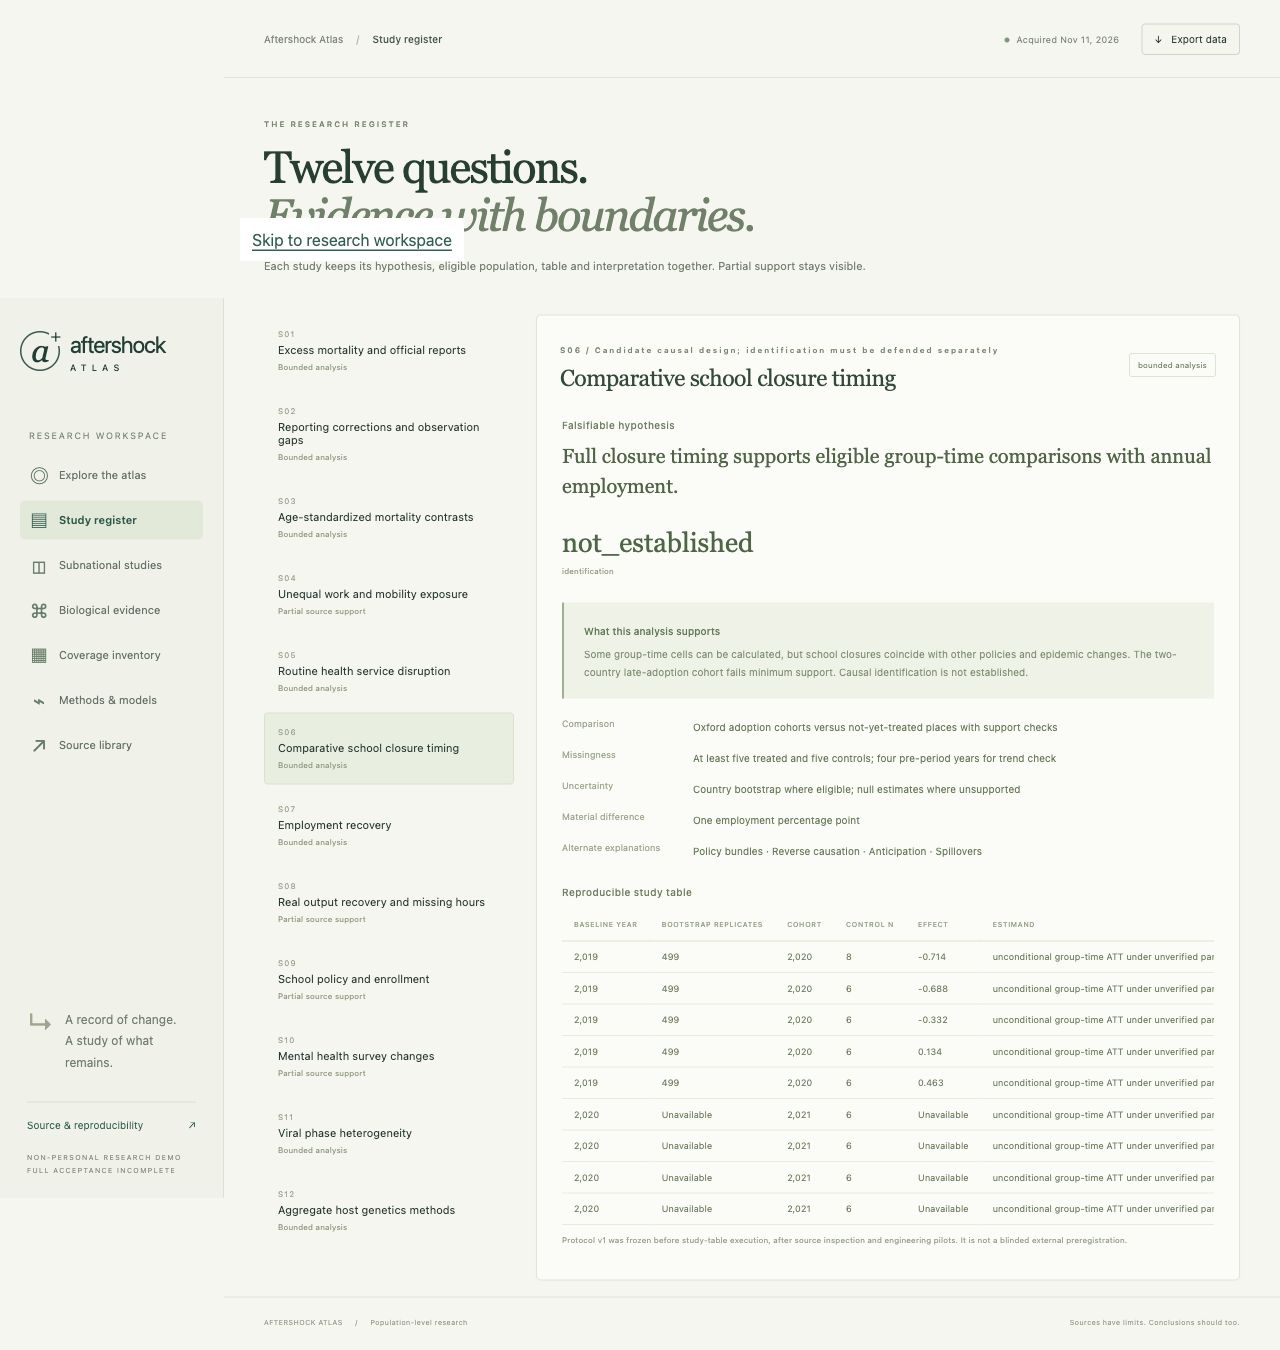
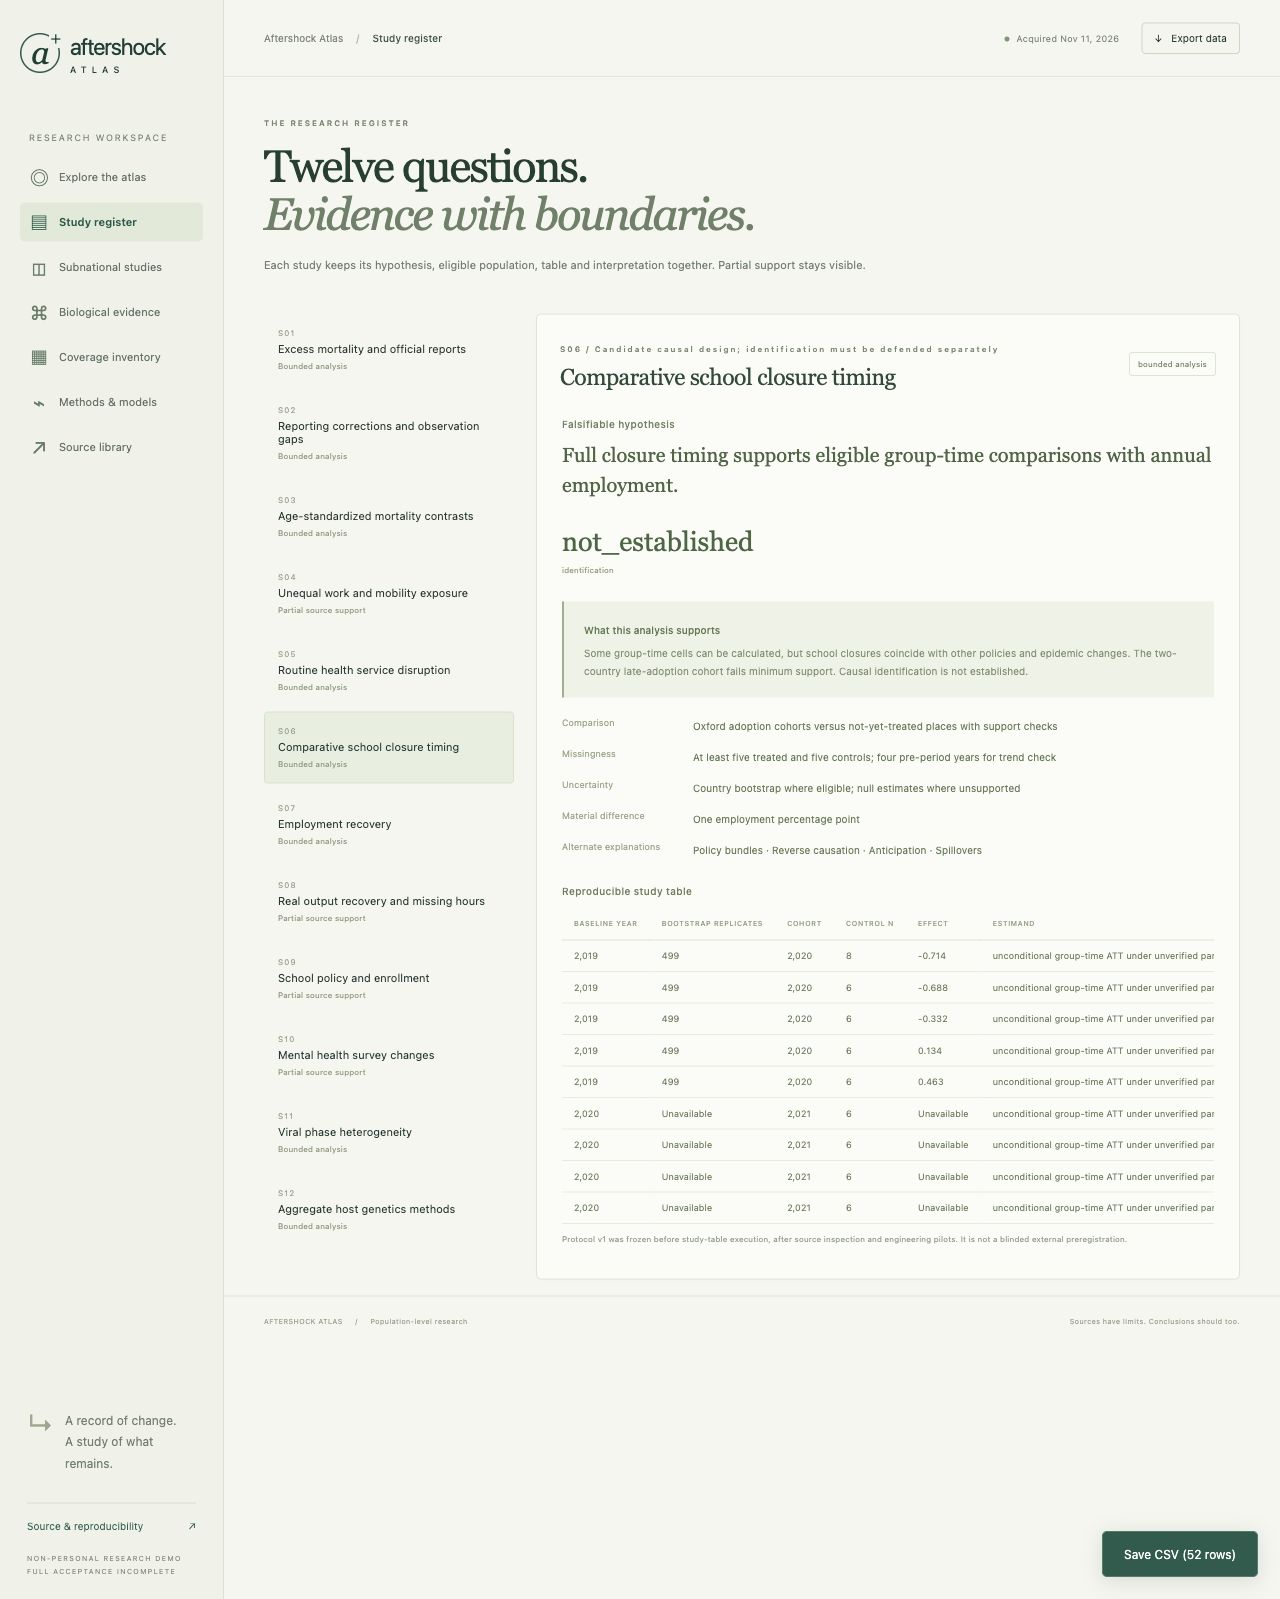
Correct UTC plot labels, error announcements and replay storage accounting

diff --git a/client/src/research-views.ts b/client/src/research-views.ts
@@ -37,7 +37,7 @@ export async function biologyView(signal:AbortSignal):Promise<Rendered> {
   const variants=['B.1.617.2','B.1.1.529'];
   const series=variants.map((v,i)=>({name:v,color:i?'#bd724c':'#226354',points:viral.rows.filter(r=>r.variant===v).map(r=>({x:Date.parse(r.week),y:r.value===null?null:r.value*100,low:r.lower===null?undefined:r.lower*100,high:r.upper===null?undefined:r.upper*100}))}));
   const forest=genes.representatives.slice(0,12).map(r=>`<tr><td>chr${safe(r.chromosome)}:${r.position}<small>${safe(r.reference)} → ${safe(r.effect_allele)}</small></td><td>${format(r.a2_odds_ratio,3)}</td><td>${format(r.a2_lower,3)} to ${format(r.a2_upper,3)}</td><td>${r.a2_beta*r.b2_beta_aligned>0?'Concordant':'Discordant'}</td></tr>`).join('');
-  return {html:`${heading('AGGREGATE BIOLOGICAL EVIDENCE','Two distinct<br><em>lines of inquiry.</em>','Human host associations and viral surveillance stay in separate schemas. Neither is a biological explanation of national or ethnic-group outcomes.')}<section class="panel prose"><div class="panel-heading"><div><span class="eyebrow">HUMAN HOST ASSOCIATIONS</span><h2>HGI released summary statistics</h2></div><span class="pill warning">Technical interpretation</span></div><div class="study-stats"><div><strong>${format(genes.aligned_variants,0)}</strong><span>aligned variants</span></div><div><strong>${format(genes.direction_concordant,0)}</strong><span>same effect direction</span></div><div><strong>${format(genes.excluded.ambiguous_strand,0)}</strong><span>ambiguous variants excluded</span></div></div>${note('Concordance is not independent replication','The severe respiratory and hospitalized case definitions share cohorts and controls. Selected top variants, linkage disequilibrium and sample overlap limit interpretation. These odds ratios do not estimate personal risks.')}<div class="table-scroll"><table><thead><tr><th>GRCh38 variant</th><th>A2 odds ratio</th><th>95% Wald interval</th><th>A2 / B2 direction</th></tr></thead><tbody>${forest}</tbody></table></div><p class="micro">Display representatives use 1 Mb bins for compression, not LD independence. BH adjustments apply only to the selected set. <a href="https://www.covid19hg.org/results/r7/" target="_blank" rel="noreferrer">HGI release 7 and phenotype definitions ↗</a></p></section><section class="panel prose"><span class="eyebrow">VIRAL LINEAGE ESTIMATES</span><h2>An archived US surveillance window</h2>${lineChart(series,'weighted percent, biweekly')}${note('No raw submissions as prevalence','This extract uses one frozen CDC weighted publication. Provider-flagged unreliable cells remain suppressed. Aggregate lineage labels may overlap, so arbitrary shares are not summed.')}<p><a href="https://data.cdc.gov/d/jr58-6ysp" target="_blank" rel="noreferrer">CDC genomic surveillance definitions ↗</a></p></section>`,rows:genes.representatives as unknown as Record<string,unknown>[]};
+  return {html:`${heading('AGGREGATE BIOLOGICAL EVIDENCE','Two distinct<br><em>lines of inquiry.</em>','Human host associations and viral surveillance stay in separate schemas. Neither is a biological explanation of national or ethnic-group outcomes.')}<section class="panel prose"><div class="panel-heading"><div><span class="eyebrow">HUMAN HOST ASSOCIATIONS</span><h2>HGI released summary statistics</h2></div><span class="pill warning">Technical interpretation</span></div><div class="study-stats"><div><strong>${format(genes.aligned_variants,0)}</strong><span>aligned variants</span></div><div><strong>${format(genes.direction_concordant,0)}</strong><span>same effect direction</span></div><div><strong>${format(genes.excluded.ambiguous_strand,0)}</strong><span>ambiguous variants excluded</span></div></div>${note('Concordance is not independent replication','The severe respiratory and hospitalized case definitions share cohorts and controls. Selected top variants, linkage disequilibrium and sample overlap limit interpretation. These odds ratios do not estimate personal risks.')}<div class="table-scroll"><table><thead><tr><th>GRCh38 variant</th><th>A2 odds ratio</th><th>95% Wald interval</th><th>A2 / B2 direction</th></tr></thead><tbody>${forest}</tbody></table></div><p class="micro">Display representatives use 1 Mb bins for compression, not LD independence. BH adjustments apply only to the selected set. <a href="https://www.covid19hg.org/results/r7/" target="_blank" rel="noreferrer">HGI release 7 and phenotype definitions ↗</a></p></section><section class="panel prose"><span class="eyebrow">VIRAL LINEAGE ESTIMATES</span><h2>An archived US surveillance window</h2>${lineChart(series,'weighted percent, biweekly',undefined,undefined,[0,100])}${note('No raw submissions as prevalence','This extract uses one frozen CDC weighted publication. Provider-flagged unreliable cells remain suppressed. Aggregate lineage labels may overlap, so arbitrary shares are not summed.')}<p><a href="https://data.cdc.gov/d/jr58-6ysp" target="_blank" rel="noreferrer">CDC genomic surveillance definitions ↗</a></p></section>`,rows:genes.representatives as unknown as Record<string,unknown>[]};
 }
 
 export async function subnationalView(state:State,signal:AbortSignal,update:(patch:Partial<State>)=>void):Promise<Rendered> {
@@ -53,7 +53,7 @@ export async function subnationalView(state:State,signal:AbortSignal,update:(pat
     return `<section class="panel prose"><span class="eyebrow">${s.region==='US-CA'?'CALIFORNIA':'FLORIDA'} / STATE OF OCCURRENCE</span><h2>Registered mortality and a predictive baseline</h2>${lineChart(series,'deaths / event week')}<p>Held-out 2020-2022 interval coverage: <strong>${format(s.test_coverage_90*100)}%</strong> for nominal 90% bands. Miscalibration is retained.</p><p class="micro">${safe(s.denominator_status)}. These state counts are not age-adjusted disparity rates.</p></section>`;
   }).join('');
   const exports=survey.rows.filter(r=>(group==='total'?['US-CA','US-FL'].includes(r.region):r.region==='USA')&&r.group===group);
-  return {html:`${heading('SUBNATIONAL CASE STUDIES','Place matters.<br><em>So do denominators.</em>','Two state mortality studies and source-defined symptom estimates. Counts, weighted percentages and age-adjusted rates remain distinct.')}<section class="panel prose"><div class="panel-heading"><div><span class="eyebrow">PUBLISHED SURVEY ESTIMATES</span><h2>Symptoms of anxiety or depression</h2></div><label>Source-defined group<select id="subgroup">${groups.map(g=>`<option value="${safe(g)}" ${group===g?'selected':''}>${g==='total'?'California / Florida total':safe(g)}</option>`).join('')}</select></label></div>${lineChart(surveySeries,'weighted percent adults')}${note('A series of survey waves, not matched people','Bands are provider-published marginal intervals. Instrument phases, nonresponse and changing samples limit comparisons. Missing and suppressed values stay absent. US group labels keep their source context. No clinical diagnosis is inferred.')}<details><summary>Inspect survey values and suppression</summary>${table(exports as unknown as Record<string,unknown>[],20)}</details></section>${cards}`,rows:exports as unknown as Record<string,unknown>[],after:root=>{root.querySelector<HTMLSelectElement>('#subgroup')!.onchange=e=>update({subgroup:(e.target as HTMLSelectElement).value});}};
+  return {html:`${heading('SUBNATIONAL CASE STUDIES','Place matters.<br><em>So do denominators.</em>','Two state mortality studies and source-defined symptom estimates. Counts, weighted percentages and age-adjusted rates remain distinct.')}<section class="panel prose"><div class="panel-heading"><div><span class="eyebrow">PUBLISHED SURVEY ESTIMATES</span><h2>Symptoms of anxiety or depression</h2></div><label>Source-defined group<select id="subgroup">${groups.map(g=>`<option value="${safe(g)}" ${group===g?'selected':''}>${g==='total'?'California / Florida total':safe(g)}</option>`).join('')}</select></label></div>${lineChart(surveySeries,'weighted percent adults',undefined,undefined,[0,100])}${note('A series of survey waves, not matched people','Bands are provider-published marginal intervals. Instrument phases, nonresponse and changing samples limit comparisons. Missing and suppressed values stay absent. US group labels keep their source context. No clinical diagnosis is inferred.')}<details><summary>Inspect survey values and suppression</summary>${table(exports as unknown as Record<string,unknown>[],20)}</details></section>${cards}`,rows:exports as unknown as Record<string,unknown>[],after:root=>{root.querySelector<HTMLSelectElement>('#subgroup')!.onchange=e=>update({subgroup:(e.target as HTMLSelectElement).value});}};
 }
 
 export async function sourcesView(signal:AbortSignal):Promise<Rendered> {

diff --git a/client/src/charts.ts b/client/src/charts.ts
@@ -1,7 +1,7 @@
 import {format,safe} from './data';
 import type { Series } from './types';
 
-export function lineChart(series: Series[], unit: string, selected?: number, baseline?: number): string {
+export function lineChart(series: Series[], unit: string, selected?: number, baseline?: number, bounds?:[number,number]): string {
   const compact=window.innerWidth<650;
   const width=compact?Math.max(300,window.innerWidth-72):900, height=compact?250:300, left=64, right=24, top=20, bottom=42;
   const all = series.flatMap(s => s.points.filter(p => p.y !== null && Number.isFinite(p.y)));
@@ -9,7 +9,7 @@ export function lineChart(series: Series[], unit: string, selected?: number, bas
   const xs = all.map(p=>p.x), ys = all.flatMap(p=>[p.y!,p.low ?? p.y!,p.high ?? p.y!]);
   const xmin=Math.min(...xs), xmax=Math.max(...xs), ymin0=Math.min(...ys), ymax0=Math.max(...ys);
   const padding=Math.max((ymax0-ymin0)*.12,Math.abs(ymax0)*.02,.01);
-  const ymin=ymin0-padding,ymax=ymax0+padding;
+  const ymin=Math.max(bounds?.[0]??-Infinity,ymin0-padding),ymax=Math.min(bounds?.[1]??Infinity,ymax0+padding);
   const x=(v:number)=>left+(v-xmin)/(xmax-xmin||1)*(width-left-right);
   const y=(v:number)=>height-bottom-(v-ymin)/(ymax-ymin)*(height-top-bottom);
   const grid = Array.from({length:5},(_,i)=>{
@@ -17,14 +17,14 @@ export function lineChart(series: Series[], unit: string, selected?: number, bas
     return `<line x1="${left}" x2="${width-right}" y1="${y(value)}" y2="${y(value)}" stroke="#e1e6df"/><text x="${left-12}" y="${y(value)+4}" text-anchor="end">${format(value,Math.abs(value)<10?2:0)}</text>`;
   }).join('');
   const maxTicks=compact?4:7;
-  let ticks = [...new Set(xs)].filter((_,i,a)=>i%Math.max(1,Math.ceil(a.length/maxTicks))===0);
+  let ticks = [...new Set(xs)].sort((a,b)=>a-b).filter((_,i,a)=>i%Math.max(1,Math.ceil(a.length/maxTicks))===0);
   if (xmax > 2100) {
     ticks=[];
     const firstYear=new Date(xmin).getUTCFullYear(),lastYear=new Date(xmax).getUTCFullYear();
     const stride=Math.max(1,Math.ceil((lastYear-firstYear)/maxTicks));
     for(let year=firstYear;year<=lastYear;year+=stride) ticks.push(Math.max(xmin,Date.UTC(year,0,1)));
   }
-  const labels=ticks.map(v=>`<text x="${x(v)}" y="${height-13}" text-anchor="middle">${v>2100?new Date(v).getFullYear():v}</text>`).join('');
+  const labels=ticks.map(v=>`<text x="${x(v)}" y="${height-13}" text-anchor="middle">${v>2100?new Date(v).getUTCFullYear():v}</text>`).join('');
   const shapes=series.map(s=>{
     const segments: typeof s.points[]=[]; let current: typeof s.points=[];
     for (const p of s.points) {
@@ -39,6 +39,6 @@ export function lineChart(series: Series[], unit: string, selected?: number, bas
     }).join('');
   }).join('');
   const reference = baseline!==undefined&&baseline>=ymin&&baseline<=ymax ? `<line x1="${left}" x2="${width-right}" y1="${y(baseline)}" y2="${y(baseline)}" stroke="#9b9f96" stroke-dasharray="3 4"/>` : '';
-  const onset = xmin<=2020&&xmax>=2020 ? `<rect x="${x(2020)}" y="${top}" width="${Math.max(0,x(Math.min(2022,xmax))-x(2020))}" height="${height-top-bottom}" fill="#d9ddd3" opacity=".2"/><text x="${x(2020)+7}" y="${top+12}" class="era-label">2020-2022 comparison window</text>` : '';
+  const onset = xmin<=2020&&xmax>=2020 ? `<rect x="${x(2020)}" y="${top}" width="${Math.max(0,x(Math.min(2022,xmax))-x(2020))}" height="${height-top-bottom}" fill="#d9ddd3" opacity=".2"/><text x="${x(2020)+7}" y="${top+12}" class="era-label">${compact?'2020-22':'2020-2022 comparison window'}</text>` : '';
   return `<div class="chart-legend">${series.map(s=>`<span><i style="background:${s.color}"></i>${safe(s.name)}</span>`).join('')}<span class="unit">${safe(unit)}</span></div><svg class="line-chart" viewBox="0 0 ${width} ${height}" role="img" aria-label="Trajectory comparison in ${safe(unit)}">${onset}${grid}${labels}${reference}${shapes}</svg>`;
 }

diff --git a/client/src/main.ts b/client/src/main.ts
@@ -41,6 +41,8 @@ async function render(restoreFocus?:string,moveFocus=false):Promise<void> {
   controller?.abort();controller=new AbortController();const signal=controller.signal,version=++revision;
   const root=document.querySelector<HTMLElement>('#workspace')!;
   root.setAttribute('aria-busy','true');
+  exportRows=[];
+  document.querySelector<HTMLButtonElement>('#export')!.disabled=true;
   app.querySelectorAll<HTMLElement>('.nav-item').forEach(b=>{
     const active=b.dataset.view===state.view;b.classList.toggle('active',active);
     if(active)b.setAttribute('aria-current','page');else b.removeAttribute('aria-current');
@@ -68,6 +70,7 @@ async function render(restoreFocus?:string,moveFocus=false):Promise<void> {
   } catch(error) {
     if(signal.aborted)return;
     root.setAttribute('aria-busy','false');
+    document.querySelector('#announcements')!.textContent=`Data unavailable. ${error instanceof Error?error.message:String(error)}. Retry this view.`;
     root.innerHTML=`<section class="panel error-state"><div class="eyebrow">DATA COULD NOT BE LOADED</div><h1>This view is unavailable.</h1><p>${safe(error instanceof Error?error.message:error)}</p><button id="retry" class="export-button">Retry this view</button><p class="micro">Successful data remains cached in this browser session. An unavailable source is never filled with example values.</p></section>`;
     root.querySelector('#retry')!.addEventListener('click',()=>void render());
   }
@@ -78,3 +81,6 @@ async function start():Promise<void> {
   catch(error){app.innerHTML=`<main class="startup-error"><h1>Aftershock Atlas</h1><p>The source manifest could not be loaded.</p><pre>${safe(error instanceof Error?error.message:error)}</pre><button onclick="location.reload()">Retry</button></main>`;}
 }
 void start();
+window.matchMedia('(max-width: 649px)').addEventListener('change',()=>{
+  if(state)void render((document.activeElement as HTMLElement)?.id);
+});

diff --git a/src/aftershock/resources.py b/src/aftershock/resources.py
@@ -34,15 +34,18 @@ def tree_bytes(path: Path) -> int:
 
 
 def usage(reserve: int = 0, root: Path = ROOT) -> dict:
+    accounting_root = Path(os.environ.get("AFTERSHOCK_ACCOUNTING_ROOT", str(root))).resolve()
+    if not root.resolve().is_relative_to(accounting_root):
+        raise ValueError("Accounting root must contain this checkout and its attributable files")
     volume = Path("/System/Volumes/Data") if platform.system() == "Darwin" else root
     disk = shutil.disk_usage(volume)
-    local = tree_bytes(root)
+    local = tree_bytes(accounting_root)
     # Initial installer cache attribution is conservative, separately recorded.
     external_cache = 250_000_000 if platform.system() == "Darwin" else 0
     result = {"at": now(), "project_bytes": local, "external_cache_attribution": external_cache,
               "volume_used": disk.used, "reserve": reserve, "project_limit": PROJECT_LIMIT,
               "volume_limit": MAC_LIMIT, "volume_free": disk.free}
-    append_json(root / ".agent-local/resources.jsonl", result)
+    append_json(accounting_root / ".agent-local/resources.jsonl", result)
     if local + external_cache + reserve > PROJECT_LIMIT:
         raise RuntimeError("Project storage budget would be exceeded")
     if disk.used + reserve > MAC_LIMIT:

diff --git a/tests/test_resources.py b/tests/test_resources.py
@@ -1,0 +1,17 @@
+import pytest
+
+from aftershock.resources import usage
+
+
+def test_nested_checkout_accounts_for_parent_project(tmp_path, monkeypatch):
+    project = tmp_path / "project"
+    checkout = project / "replay"
+    checkout.mkdir(parents=True)
+    (project / "owned-source.bin").write_bytes(b"x" * 8192)
+    monkeypatch.setenv("AFTERSHOCK_ACCOUNTING_ROOT", str(project))
+    measured = usage(root=checkout)
+    assert measured["project_bytes"] >= 8192
+    assert (project / ".agent-local/resources.jsonl").is_file()
+    monkeypatch.setenv("AFTERSHOCK_ACCOUNTING_ROOT", str(tmp_path / "unrelated"))
+    with pytest.raises(ValueError, match="must contain"):
+        usage(root=checkout)
